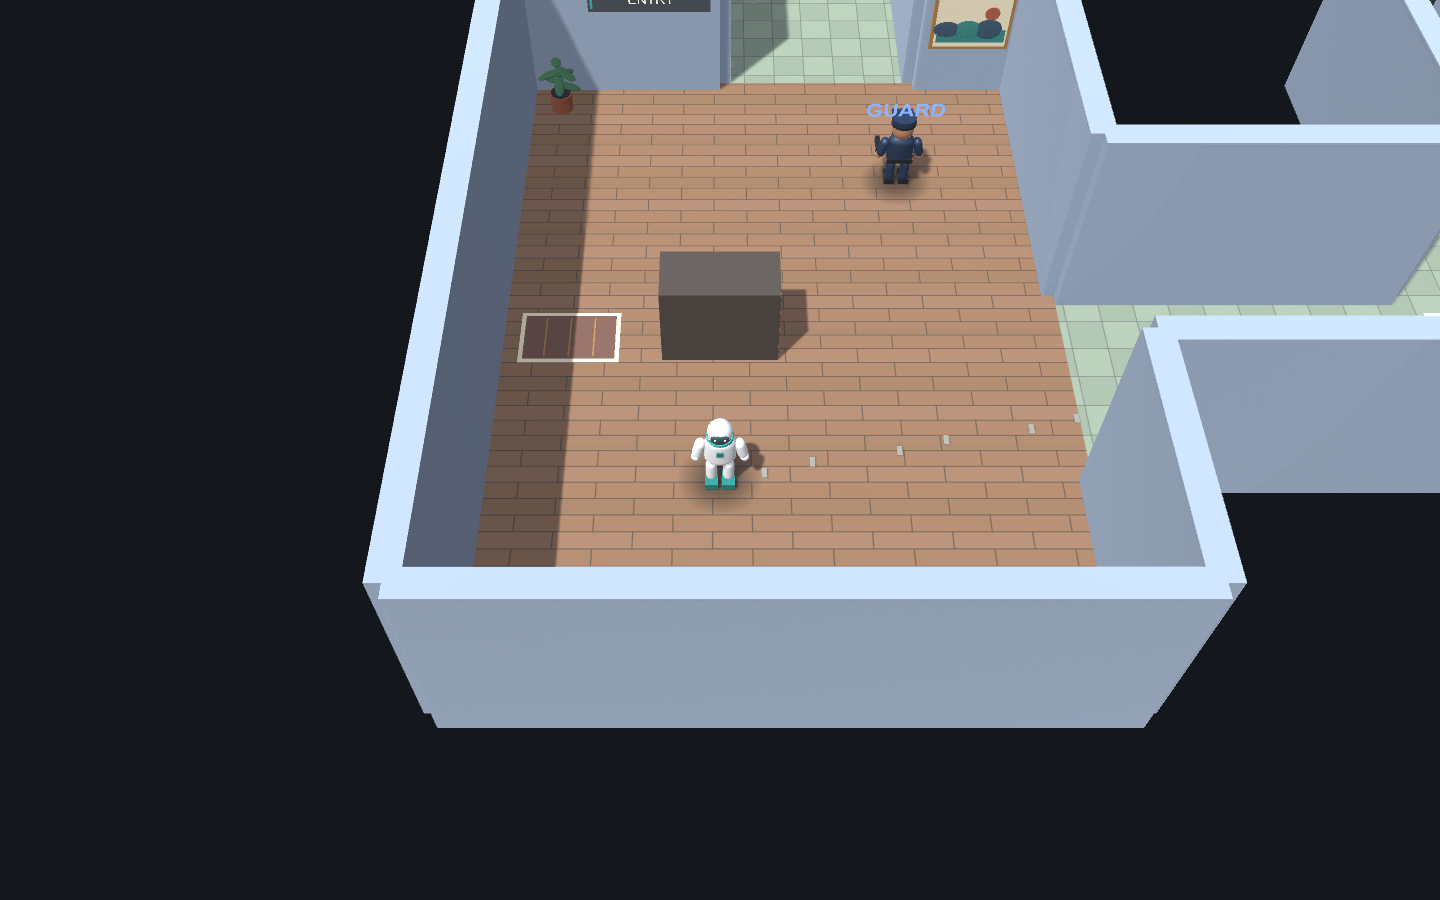
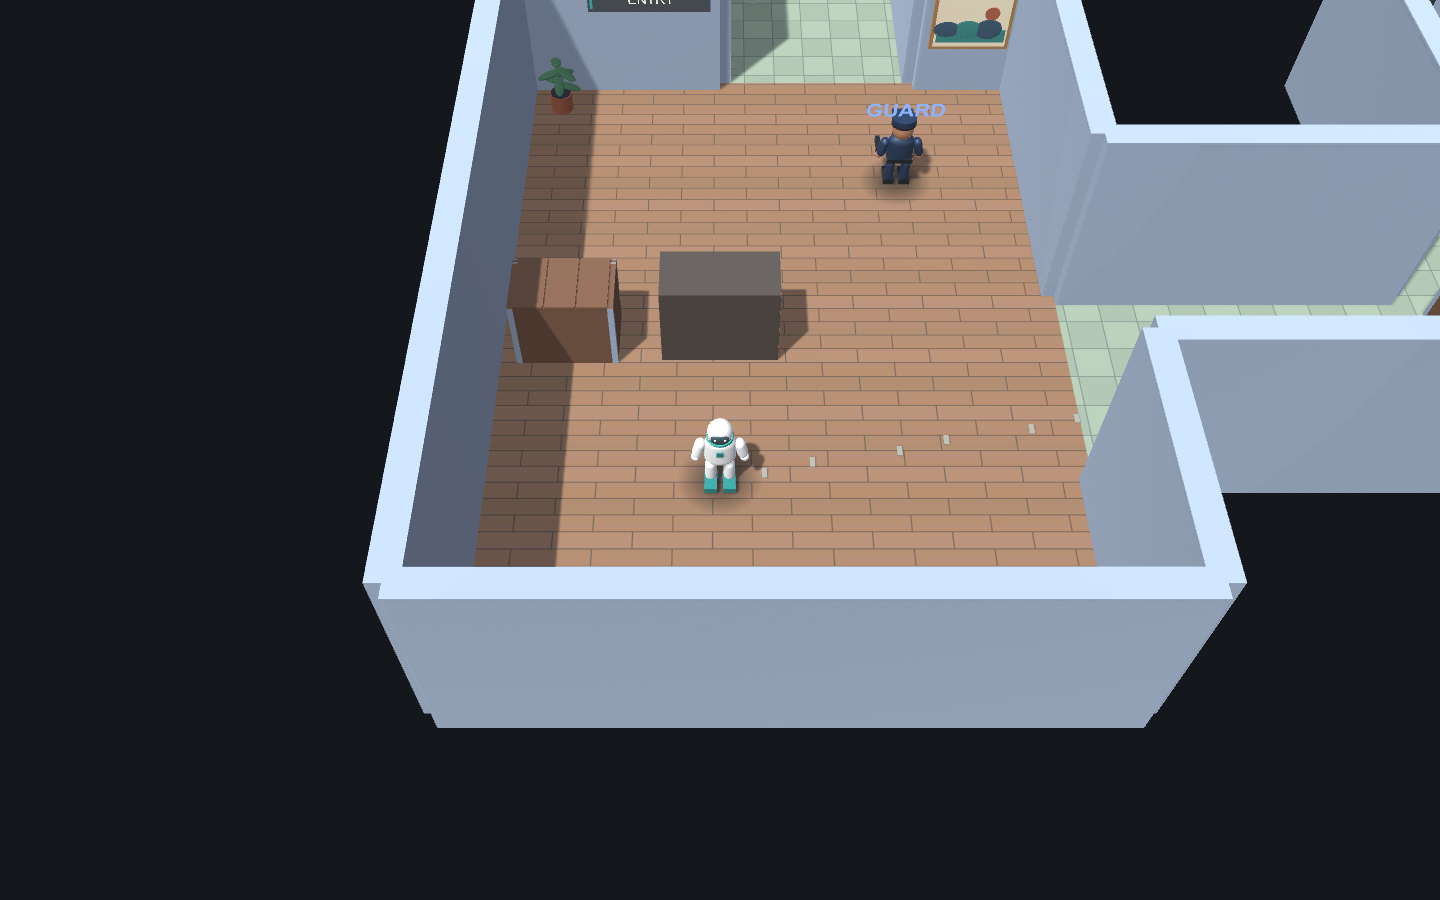
Record corrected main build, crate and stride screenshots

Changed region(s): [[0.3438, 0.28, 0.4688, 0.4044], [0.9688, 0.3111, 1.0, 0.3733], [0.4688, 0.5289, 0.5312, 0.56]]

diff --git a/Docs/MainGoal/README.md b/Docs/MainGoal/README.md
@@ -1,33 +1,19 @@
-# Main goal: character shadows and avatars
+# Main goal: shadows, readable characters and solid cover
 
-Approved style F: soft directional silhouette plus stronger floor contact. Covers Spirit, autonomous Guards and Heavies, controlled hosts, runtime-spawned enemies and Tutorial. The NPC stamp is hidden while its host is possessed so it does not double the player shadow.
+Approved F shadows combine directional silhouettes and soft floor contact for Spirit and all enemies. Police have a navy uniform, cap, badge and visible sidearm. Spirit is white/teal. Heavy has an orange work uniform, hardhat and hammer.
 
-The Spirit has a white/teal humanoid avatar. Guards have navy clothing, a peaked cap, gold badges, duty belt/radio and a visible sidearm. Only clothing turns white in possession. Existing root renderers remain as logical visibility/bounds proxies; gameplay transforms, colliders and abilities are retained.
+Spirit, police and Heavy have two visible legs and boots. Feet alternate with actual distance travelled, settle when movement stops and freeze during pause. Animation moves only visual pieces. Possession colours, visible-body countdown blink, combat warning tint and Heavy smash guide stay connected to gameplay.
 
-Countdown blink targets visible body pieces; equipment retains visibility. Attack warning property blocks bind to the new model. Hide/show follows possession, death, component enable/disable and scene transitions. Global lighting settings restore after the final owner leaves, including additive scenes.
+Flat mat-like props are replaced by **2.8 × 2.2 × 1.8 m solid wooden hiding crates**. Each intentionally adds one enabled blocking BoxCollider. Cover stops movement, actual enemy sight and the rendered red vision cone, and avoids full patrol segments and objectives. Crates join camera occlusion fading. Original authored colliders are unchanged. Vision cones use 96 ray samples and an expanding hit buffer.
 
-## Review order
+## Validation
 
-This is a focused followup to existing PR84 (base branch codex/playtest-feedback). The USC stretch PR is stacked above this main PR and contains its own room-art/corner changes. Neither PR is merged automatically.
+The corrected main build passed **310/310 PlayMode tests**, zero failures/skips. New tests exercise actual sight and cone obstruction, distance-driven stride/idle/pause and retained Heavy guide visibility. Existing full campaign solution, patrol, possession/ejection, combat, jumping and occlusion tests also passed.
 
-## Verification
+Scene captures use an inspection camera with HUD hidden. Closeups temporarily hide intervening walls/world labels. Stride images advance the same distance-driven pose by small staged root movements; they are inspection poses rather than recordings of human play. The runtime build uses normal cameras and visibility.
 
-Full gameplay suite: **304 passed, 0 failed**. After the additional fallback lifecycle edge fix, **31/31 avatar, visible-body blink, proportion and level-presentation checks passed**. The final combined stretch suite will include these same runtime changes. Build and browser evidence follow. New regression coverage exercises real possession/ejection and shield retention, visible uniform versus cap colours, every stage/Tutorial avatar/shadow installation, no new colliders, component lifecycle, cloned actors, death, attack warning tint and additive lighting restoration. Existing countdown-blink timing/pause/restoration tests now observe the visible torso instead of the hidden legacy capsule.
+![Solid cover](Level_03-hiding-crate.png)
+![Police stride](Level_03-police-stride2.png)
+![Heavy](Level_03-heavy.png)
 
-Native closeups are inspection camera renders; any wall between the camera and character is temporarily hidden for the capture only. Gameplay overview and browser evidence are recorded separately.
-
-The approved preview used Unity primitives; built-in FBX capsule/sphere meshes have different unit bounds. Runtime pieces explicitly normalize those mesh dimensions, and the identity collar fits the humanoid torso/head instead of the legacy capsule.
-
-Release WebGL build succeeded (`Builds/MainGoal`). Collider fingerprints matched in all three campaign stages and Tutorial. These are actual Unity level renders.
-
-![Police and F shadow](Level_03-police.png)
-![Spirit avatar](Level_03-player.png)
-![Campaign camera overview](Level_03-overview.png)
-
-The combined main+USC regression run passed **312/312 tests, 0 skipped**. Main-only review build: https://utkarsh-landge.github.io/posession-gold-playtest-2026/playtest-feedback/main-goal/ . Editor inspection lighting is explicitly released before changing scenes/building, retaining project quality settings.
-
-## November 21 corrections
-
-The flat floor mats now become solid 2.8 × 2.2 × 1.8 m wooden hiding crates. Each intentionally adds exactly one enabled BoxCollider, blocking movement and enemy sight. Original scene colliders are unchanged. Crates keep clear of complete patrol segments and gameplay objectives and join camera occlusion fading.
-
-Spirit, police and Heavy now have distance-driven alternating feet. Walking stops when actual movement stops; pause freezes the pose. Heavy retains an orange work uniform, hardhat and visible hammer. Red vision cones use 96 ray samples and an expanding hit buffer, and stop at solid cover. New regression checks cover stride/idle/pause, Heavy smash-guide visibility and actual detection plus rendered-cone obstruction.
+Review order: existing #84 → main #85 → USC stretch #86. Main playable build: https://utkarsh-landge.github.io/posession-gold-playtest-2026/playtest-feedback/main-goal/
